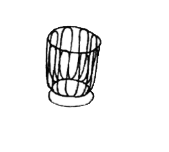
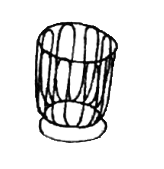
Updated clipped images and specified size in card layout

Changed region(s): [[0.1829, 0.1053, 0.7317, 0.8684]]

diff --git a/Pages/gallery.html b/Pages/gallery.html
@@ -23,15 +23,34 @@
     <main>
         <section id="icon-nav">
             <div class="icon-nav">
-                <img src="../Assets/Clipped-Index-Objects/Wastepaper basket.png" alt="Wastepaper Basket Icon" class="nav-icon" data-target="#wastepaper-basket">
-                <img src="../Assets/Clipped-Index-Objects/Wooden chair.png" alt="Wooden Chair Icon" class="nav-icon" data-target="#wooden-chair-citrus-basket">
-                <img src="../Assets/Clipped-Index-Objects/Citrus basket.png" alt="Citrus Basket Icon" class="nav-icon citrus-override" data-target="#wooden-chair-citrus-basket">
-                <img src="../Assets/Clipped-Index-Objects/Barbecue.png" alt="Barbecue Icon" class="nav-icon" data-target="#barbecue">
-                <img src="../Assets/Clipped-Index-Objects/Air filter.png" alt="Air Filter Icon" class="nav-icon" data-target="#air-filter">
-                <img src="../Assets/Clipped-Index-Objects/Bucket.png" alt="Bucket Icon" class="nav-icon" data-target="#bucket">
-                <img src="../Assets/Clipped-Index-Objects/Bicycle.png" alt="Bicycle Icon" class="nav-icon" data-target="#bicycle-kitchen-chair">
-                <img src="../Assets/Clipped-Index-Objects/Calculator.png" alt="Calculator Icon" class="nav-icon" data-target="#calculator-ashtray">
-                <img src="../Assets/Clipped-Index-Objects/Milk bottle.png" alt="Milk Bottle Icon" class="nav-icon" data-target="#milk-bottle">
+                <img src="../Assets/Clipped-Index-Objects/Wastepaper basket.png" alt="Wastepaper Basket Icon"
+                    class="nav-icon" data-target="#wastepaper-basket">
+                <img src="../Assets/Clipped-Index-Objects/Wooden chair.png" alt="Wooden Chair Icon" class="nav-icon"
+                    data-target="#wooden-chair-citrus-basket">
+                <img src="../Assets/Clipped-Index-Objects/Citrus basket.png" alt="Citrus Basket Icon" class="nav-icon"
+                    data-target="#wooden-chair-citrus-basket">
+                <img src="../Assets/Clipped-Index-Objects/Barbecue.png" alt="Barbecue Icon" class="nav-icon"
+                    data-target="#barbecue">
+                <img src="../Assets/Clipped-Index-Objects/Air filter.png" alt="Air Filter Icon" class="nav-icon"
+                    data-target="#air-filter">
+                <img src="../Assets/Clipped-Index-Objects/Square brush washer.png" alt="Square Brush Washer Icon"
+                    class="nav-icon" data-target="#square-brush-washer">
+                <img src="../Assets/Clipped-Index-Objects/Bathroom stool.png" alt="Bathroom Stool Icon" class="nav-icon"
+                    data-target="#bathroom-stool">
+                <img src="../Assets/Clipped-Index-Objects/Bucket.png" alt="Bucket Icon" class="nav-icon"
+                    data-target="#bucket">
+                <img src="../Assets/Clipped-Index-Objects/Shopping basket.png" alt="Shopping Basket Icon"
+                    class="nav-icon" data-target="#Shopping-basket">
+                <img src="../Assets/Clipped-Index-Objects/Bicycle.png" alt="Bicycle Icon" class="nav-icon"
+                    data-target="#bicycle-kitchen-chair">
+                <img src="../Assets/Clipped-Index-Objects/Kitchen chair.png" alt="Kitchen Chair Icon" class="nav-icon"
+                    data-target="#bicycle-kitchen-chair">
+                <img src="../Assets/Clipped-Index-Objects/Ashtray.png" alt="Ashtray Icon" class="nav-icon"
+                    data-target="#bicycle-kitchen-chair">
+                <img src="../Assets/Clipped-Index-Objects/Calculator.png" alt="Calculator Icon" class="nav-icon"
+                    data-target="#calculator-ashtray">
+                <img src="../Assets/Clipped-Index-Objects/Milk bottle.png" alt="Milk Bottle Icon" class="nav-icon"
+                    data-target="#milk-bottle">
             </div>
         </section>
         <section id="wastepaper-basket" class="gallery-section">

diff --git a/styles.css b/styles.css
@@ -344,6 +344,23 @@ nav div a:hover {
     text-underline-position: from-font;
 }
 
+@media (max-width: 900px) {
+    #explore {
+        padding: 30px 20px;
+    }
+
+    #explore .button-container p {
+        font-size: 36px;
+        transform: translateY(15%);
+    }
+}
+
+@media (max-width: 600px) {
+    #explore .button-container p {
+        font-size: 24px;
+        transform: translateY(25%);
+    }
+}
 
 
 /* essay section */
@@ -369,6 +386,22 @@ nav div a:hover {
     line-height: 1.8;
 }
 
+@media (max-width: 900px) {
+    #essay-content {
+        flex-direction: column;
+        padding: 50px 20px;
+    }
+
+    .essay-title,
+    .essay-body {
+        width: 100%;
+        margin: 0;
+    }
+
+    .essay-title {
+        margin-bottom: 100px;
+    }
+}
 
 /* footer */
 footer {
@@ -521,13 +554,20 @@ footer a:hover {
     height: 300px;
     margin: 20px 10px;
     padding: 20px;
-    box-shadow: 0 4px 45.3px -6px rgba(0, 0, 0, 0.25);
+    box-shadow: 0 4px 15px -6px rgba(0, 0, 0, 0.25);
     border: 2px solid rgba(0, 0, 0, 0.00);
     cursor: pointer;
 }
 
 .index-card:hover {
     border: 2px solid rgba(0, 0, 0, 0.15);
+}
+
+.index-img {
+    width: 100%;
+    height: 100%;
+    object-fit: contain;
+    margin-bottom: 10px;
 }
 
 .card-container {
@@ -545,6 +585,12 @@ footer a:hover {
 }
 
 @media (max-width: 850px) {
+    .index-card {
+        width: 187.5px;
+        height: 225px;
+        font-size: 12px;
+    }
+
     .card-container {
         margin: 50px 20px;
     }
@@ -665,21 +711,17 @@ footer a:hover {
 .icon-nav {
     display: flex;
     flex-direction: column;
-    gap: 14px;
+    gap: 7px;
 }
 
 .nav-icon {
-    width: 48px;
+    width: 32px;
     height: auto;
     cursor: pointer;
     transition: transform 200ms ease, opacity 200ms ease;
     opacity: 0.95;
 }
 
-.nav-icon.citrus-override {
-    width: 75px;
-    height: auto;
-}
 
 .nav-icon:hover {
     transform: scale(1.08);

diff --git a/Pages/page-index.html b/Pages/page-index.html
@@ -75,7 +75,7 @@
             </button>
             <button onclick="window.location.href='gallery.html#ashtray-uni-tray'" class="index-card">
                 <h2>Unitray</h2>
-                <img src="../Assets/Clipped-Index-Objects/Unitray.png" alt="Unitray" class="index-img">
+                <img src="../Assets/Clipped-Index-Objects/Uni-tray.png" alt="Unitray" class="index-img">
             </button>
             <button onclick="window.location.href='gallery.html#canary-sandals'" class="index-card">
                 <h2>Canary sandals</h2>
@@ -125,7 +125,7 @@
             </button>
             <button onclick="window.location.href='gallery.html#wastebin-table-coatstand'" class="index-card">
                 <h2>Waste bin</h2>
-                <img src="../Assets/Clipped-Index-Objects/Waste bin.png" alt="Waste bin" class="index-img">
+                <img src="../Assets/Clipped-Index-Objects/Wastebin.png" alt="Waste bin" class="index-img">
             </button>
             <button onclick="window.location.href='gallery.html#wastebin-table-coatstand'" class="index-card">
                 <h2>Table</h2>
